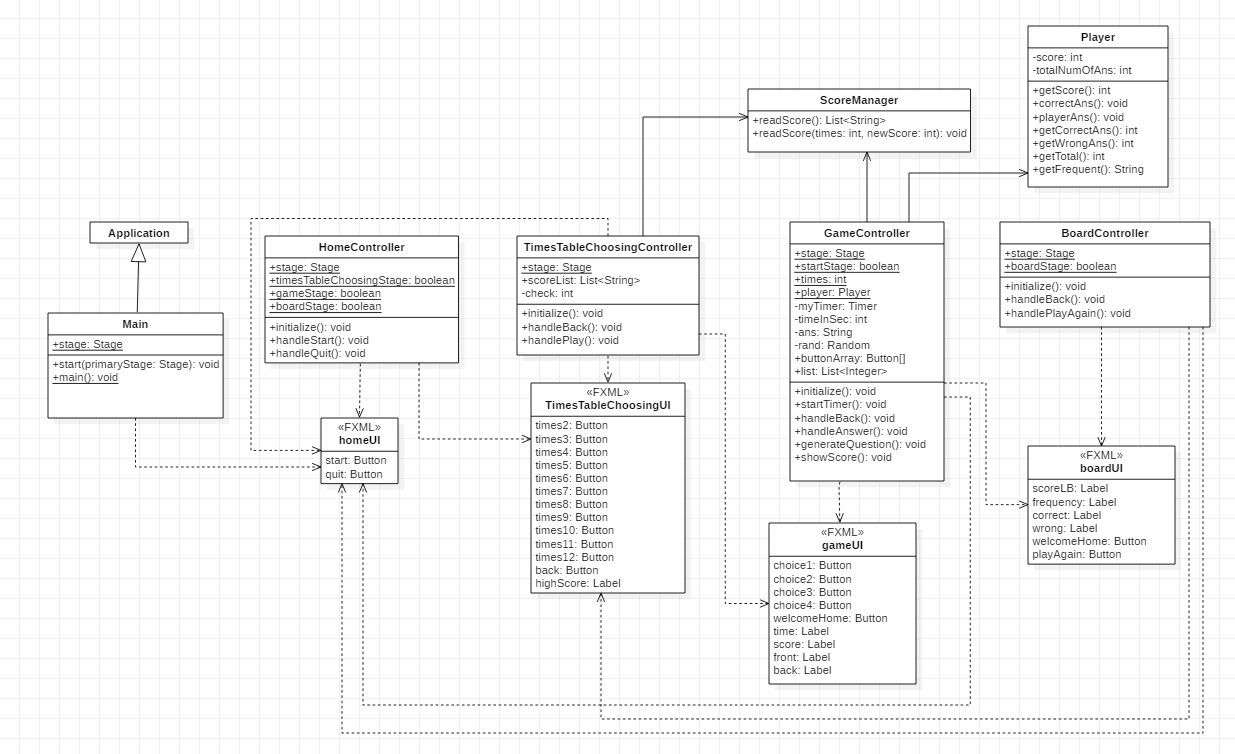
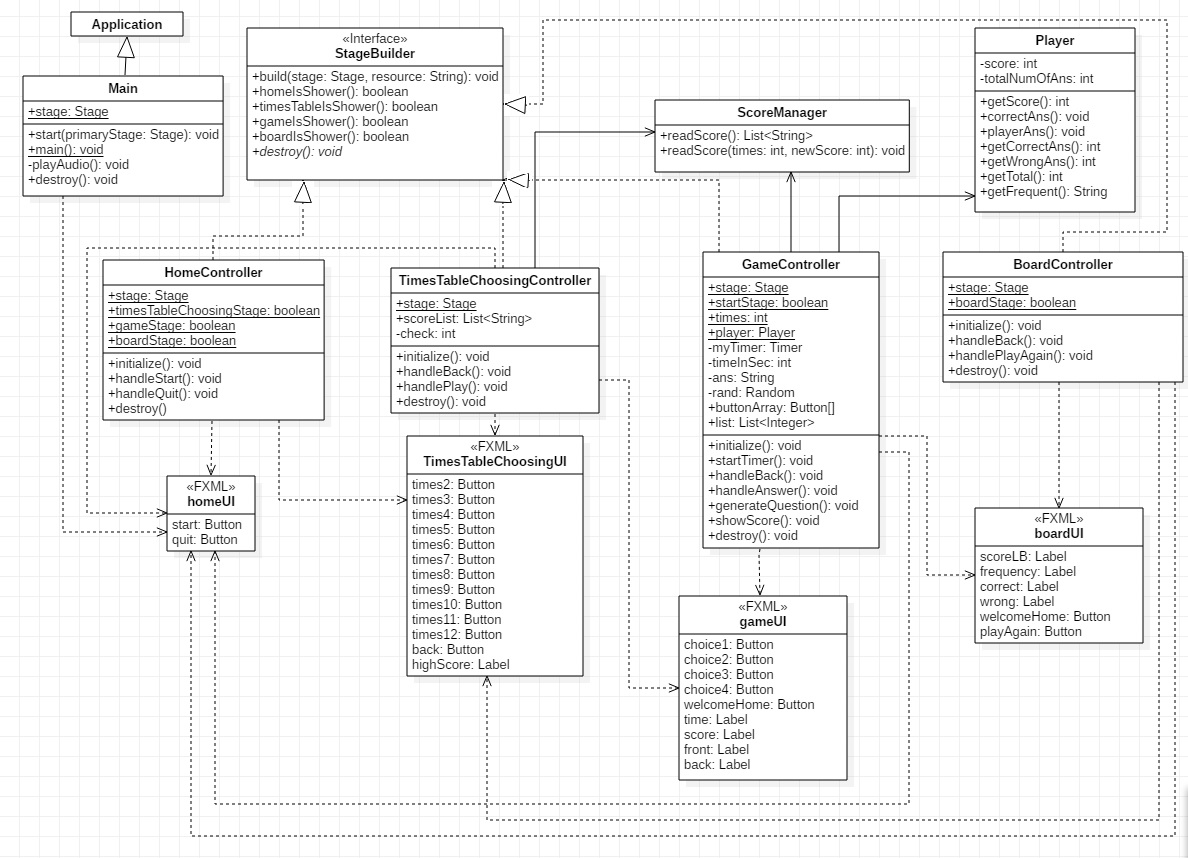
Update Readme.md and uml class diagram

diff --git a/README.md b/README.md
@@ -16,6 +16,14 @@
 
 - **Pure Fabrication**: Our user interfaces have their own controllers for control and calculation.
 
+- **Information Expert**: We achieve this principle as we see in ScoreManager. ScoreManager class records scores seperate in each row by multiplicand of numbers from 2, 3,..., and 12 respectively in score.txt file and reads score from score.txt file too.
+
+- **Indirection**: we supports low coupling and reuse potential between two elements by assigning the responsibility of mediation between them to an intermediate object. We have many classes to acheive this principle. For example, Controller classes has controller component for mediation between data (model) and its representation (view) in the model-view control pattern. This ensures that coupling between them remains low.
+
+- **Low Coupling**: We reduce the measure of how strongly one element is connected to as we see in StageBuilder class. We use composition method to achieve this principle by lower dependency between the class.
+
+- **Protected variations**: We protected variations in many Controller classes. We use EventHandler and overwrite itself to protected elements from the variations on other elements.  
+
 ## Contributors
 
 - 6010545021 [Kornphon Noiprasert](https://github.com/Driveiei)
